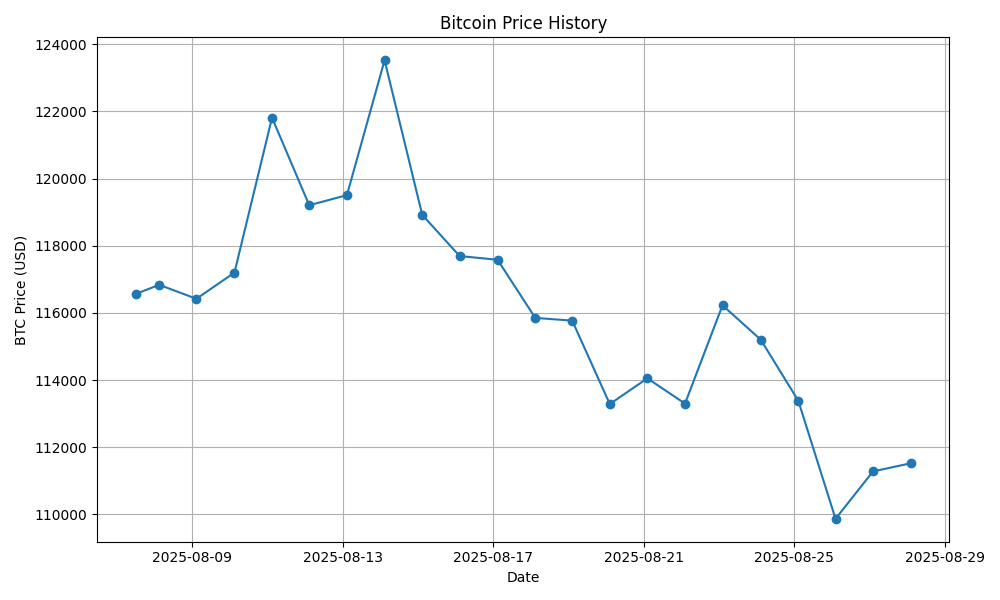
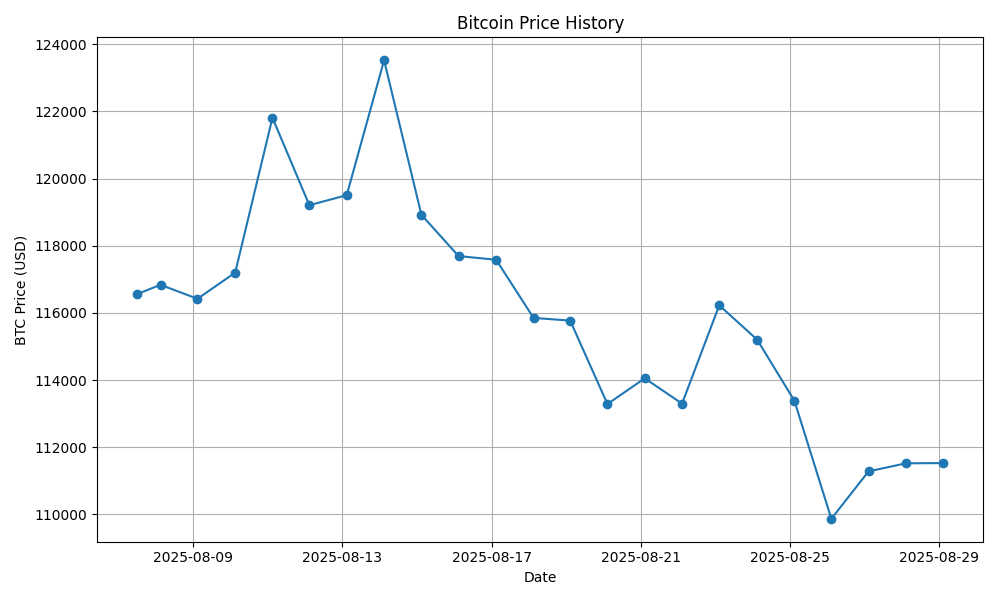
Update: BTC price, chart & README for 2025-08-29

diff --git a/README.md b/README.md
@@ -4,6 +4,6 @@ This project automatically fetches and charts the daily USD price of Bitcoin.
 
 ## Latest Stats
 
-## Latest price (USD): <!--BTC_PRICE-->111521<!--/BTC_PRICE-->
+## Latest price (USD): <!--BTC_PRICE-->111528<!--/BTC_PRICE-->
 
 ![BTC Historical Chart](btc_price_history.png)
